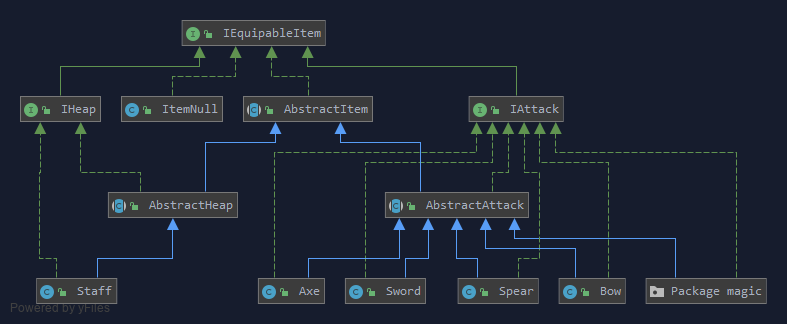
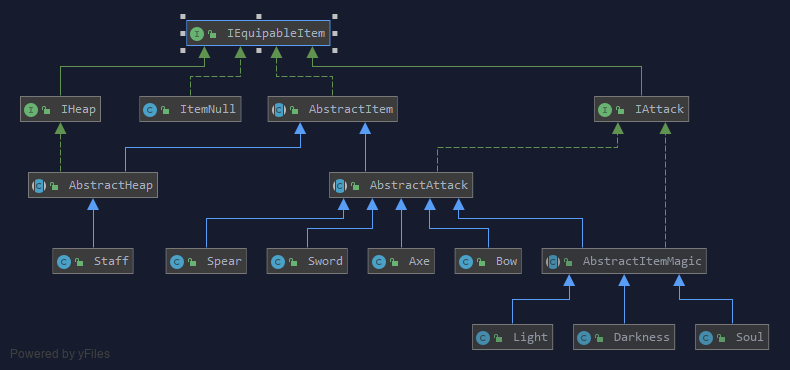
changes finished

diff --git a/t2/src/model/items/Spear.java b/t2/src/model/items/Spear.java
@@ -38,7 +38,7 @@ import org.jetbrains.annotations.NotNull;
  * @author Sebastian Sepulveda
  * @since 1.0
  */
-public class Spear extends AbstractAttack implements IAttack {
+public class Spear extends AbstractAttack {
 
   /**
    * Creates a new Axe item

diff --git a/t2/src/model/items/Staff.java b/t2/src/model/items/Staff.java
@@ -38,7 +38,7 @@ import org.jetbrains.annotations.NotNull;
  * @author Sebastian Sepulveda
  * @since 1.0
  */
-public class Staff extends AbstractHeap implements IHeap {
+public class Staff extends AbstractHeap  {
 
   /**
    * Creates a new Staff item.

diff --git a/t2/src/model/items/Sword.java b/t2/src/model/items/Sword.java
@@ -38,7 +38,7 @@ import org.jetbrains.annotations.NotNull;
  * @author Sebastian Sepulveda
  * @since 1.0
  */
-public class Sword extends AbstractAttack implements IAttack {
+public class Sword extends AbstractAttack {
 
   /**
    * Creates a new Sword.

diff --git a/t2/src/model/items/magic/Darkness.java b/t2/src/model/items/magic/Darkness.java
@@ -39,7 +39,7 @@ import org.jetbrains.annotations.NotNull;
  * @since 1.0
  */
 
-public class Darkness extends AbstractItemMagic implements IAttack {
+public class Darkness extends AbstractItemMagic {
     /**
      * Create a new Darkness item
      *

diff --git a/t2/src/model/items/Axe.java b/t2/src/model/items/Axe.java
@@ -38,7 +38,7 @@ import org.jetbrains.annotations.NotNull;
  * @author Sebastian Sepulveda
  * @since 1.0
  */
-public class Axe extends AbstractAttack implements IAttack{
+public class Axe extends AbstractAttack {
 
   /**
    * Creates a new Axe item

diff --git a/t2/src/model/items/Bow.java b/t2/src/model/items/Bow.java
@@ -37,7 +37,7 @@ import org.jetbrains.annotations.NotNull;
  * @author Sebastian Sepulveda
  * @since
  */
-public class Bow extends AbstractAttack implements IAttack {
+public class Bow extends AbstractAttack {
 
   /**
    * Creates a new bow.

diff --git a/t2/src/model/items/magic/Light.java b/t2/src/model/items/magic/Light.java
@@ -39,7 +39,7 @@ import org.jetbrains.annotations.NotNull;
  * @since 1.0
  */
 
-public class Light extends AbstractItemMagic implements IAttack {
+public class Light extends AbstractItemMagic {
     /**
      * Create a new Light item
      *

diff --git a/t2/src/model/items/magic/Soul.java b/t2/src/model/items/magic/Soul.java
@@ -39,7 +39,7 @@ import org.jetbrains.annotations.NotNull;
  * @since 1.0
  */
 
-public class Soul extends AbstractItemMagic implements IAttack {
+public class Soul extends AbstractItemMagic {
     /**
      * Create a new Soul item
      *
